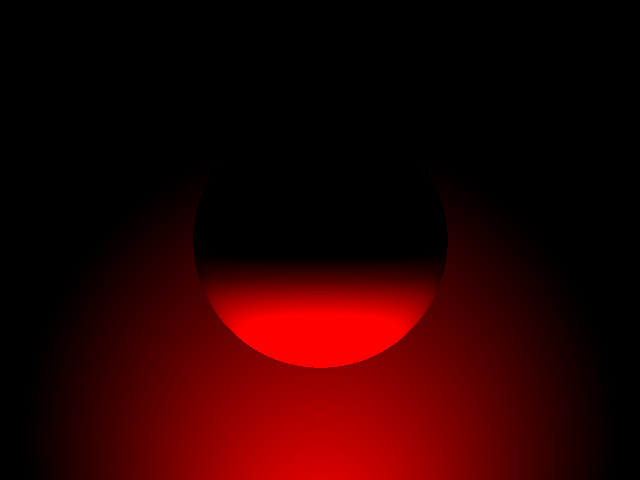
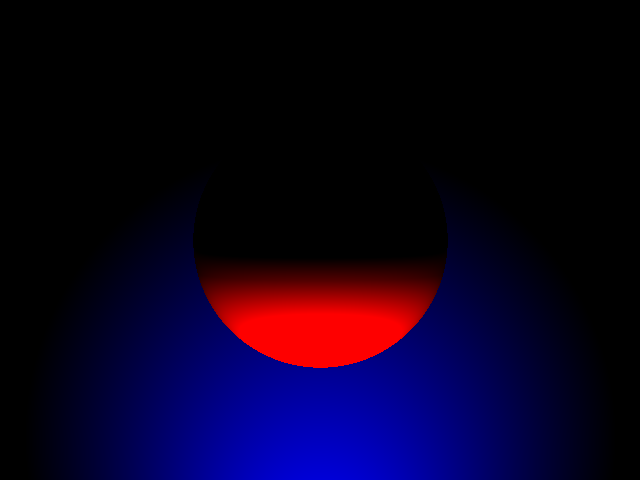
readme edit 0.1

Changed region(s): [[0.0938, 0.4375, 0.9062, 1.0]]

diff --git a/js/LIB/vector.js b/js/LIB/vector.js
@@ -8,7 +8,7 @@ const mulVector = (v, t) =>
 	new Vector(t * v.x, t * v.y, t * v.z);
 
 const dotVector = (v1, v2) => 
-	v1.x * v2.x + v1.y * v2.y * v1.z * v2.z;
+	v1.x * v2.x + v1.y * v2.y + v1.z * v2.z;
 
 const crossVector = (v1, v2) => 
 	new Vector(v1.y * v2.z - v1.z * v2.y,
@@ -17,6 +17,11 @@ const crossVector = (v1, v2) =>
 
 const  multiplyVector = (v1, v2) => 
 	new Vector(v1.x * v2.x, v1.y * v2.y, v1.z * v2.z);
+
+const normalizeVector = (v) => {
+	const len = v.len();
+	return new Vector(v.x / len, v.y / len, v.z / len);
+}
 
 const getAngle = (v1, v2) => 
 	v1.dot(v2) / (v1.len() * v2.len());
@@ -119,4 +124,4 @@ class Vector {
 
 module.exports =  { Vector ,addVector, subVector, 
 		mulVector, crossVector, dotVector, 
-		multiplyVector, getRot};
+		multiplyVector, getRot, normalizeVector};

diff --git a/js/SRC/test.js b/js/SRC/test.js
@@ -13,7 +13,8 @@ const plane  = new Plane();
 sphere.setPos(-4, 0, 0);
 plane.setPos(-5, 0, 0);
 plane.rotate(new Vector(-1, 0, 0));
-const objs = [plane, sphere];
+plane.setColor(0, 0, 255);
+const objs = [sphere, plane];
 
 
 const light = new Light();
